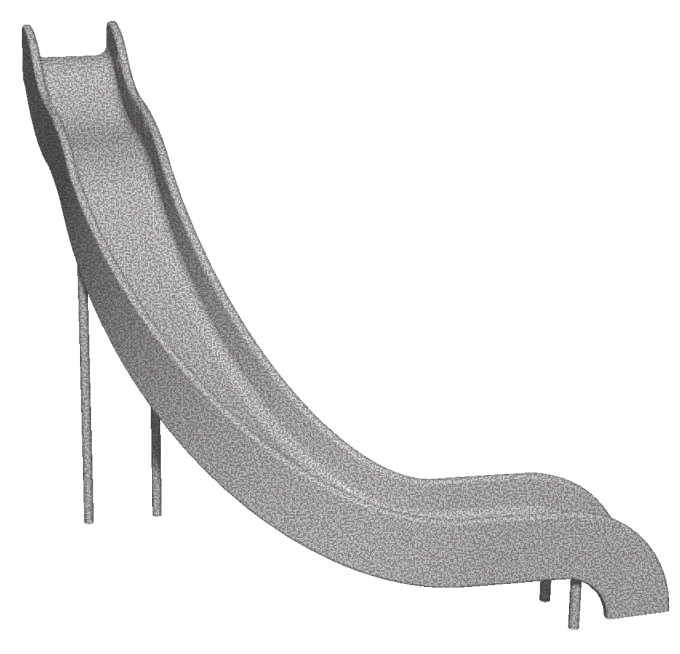
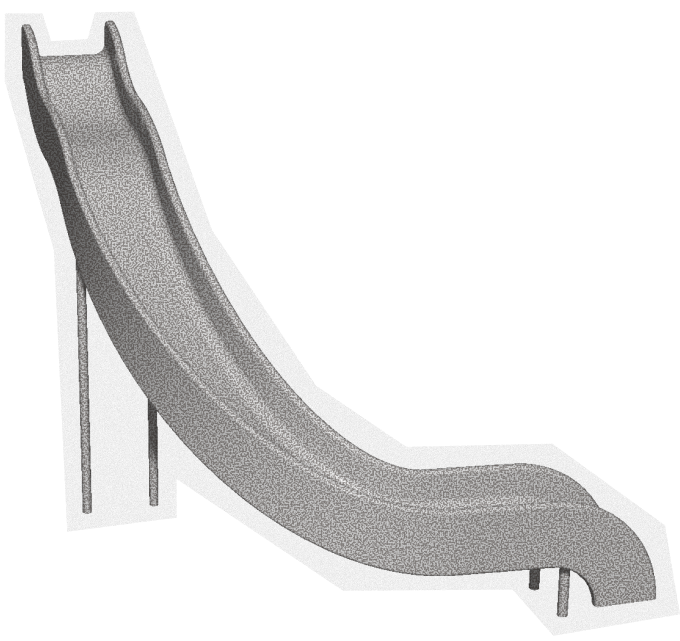
style: overhaul - whiteboard theme

Changed region(s): [[0.0309, 0.0312, 0.9882, 0.9672]]

diff --git a/src/index.css b/src/index.css
@@ -86,6 +86,13 @@ body {
 #root {
   min-height: 100vh;
 
+  /* Grid background from https://ibelick.com/blog/create-grid-and-dot-backgrounds-with-css-tailwind-css */
+  background-image: radial-gradient(
+    #e5e7eb 1px,
+    transparent 1px
+  );
+  background-size: 16px 16px;
+
   display: flex;
   flex-direction: column;
   gap: 2rem;
@@ -118,7 +125,7 @@ h4 {
 }
 
 h1 {
-  font-weight: 800;
+  font-weight: 700;
   font-size: var(--H1);
 }
 
@@ -378,7 +385,7 @@ header {
   list-style: none;
   border-radius: var(--rounded);
   background-color: var(--darker-background);
-  transition: box-shadow 100ms ease-in-out;
+  transition: outline 100ms ease-in-out;
 }
 
 .nav-items li:hover {
@@ -424,17 +431,31 @@ footer > a > p:hover {
 
 /* --------------- Home Page: Hero --------------- */
 
+.home {
+  margin: 0 2rem 4rem;
+}
+
 .hero {
-  margin-top: 1rem;
   display: flex;
   justify-content: center;
   gap: 3rem;
   flex-wrap: wrap;
   align-items: center;
+
+  position: relative;
+}
+
+#hero-horizon {
+  position: absolute;
+  width: 200%;
+  top: 8rem;
+  left: -90%;
+  border-top: 2px solid var(--lighter-main);
 }
 
 .hero-text {
-  z-index: 1;
+  backdrop-filter: blur(1px);
+  border-radius: var(--rounded);
   margin-top: 6rem; /* Aligns text with horizon */
   max-width: 27rem;
   display: flex;
@@ -466,12 +487,14 @@ footer > a > p:hover {
 }
 
 .hero div:first-child {
+  z-index: 1;
   position: relative;
   text-align: right;
 }
 
 #playground-slide {
   transform: scale(0.9);
+  filter: drop-shadow(var(--shadow));
 }
 
 .greeting {
@@ -519,44 +542,60 @@ footer > a > p:hover {
 
 /* --------------- Home Page: Projects --------------- */
 
-.projects {
-  margin-top: -9rem; /* Aligns ground with slide */
-  padding: 9rem 2.5rem 2rem; /* Creates ground beneath slide */
-  background-color: rgba(var(--black), 0.1);
-  border-radius: var(--rounded);
-}
-
 .projects h2 {
   font-family: var(--sans-serif);
   letter-spacing: 1px;
 }
 
 .projects > div {
-  display: flex;
-  justify-content: center;
+  max-width: 60rem;
+  margin: auto;
+
+  display: grid;
+  grid-template-columns: repeat(
+    auto-fit,
+    minmax(13rem, 1fr)
+  );
   gap: 1.5rem;
-  flex-wrap: wrap;
 }
 
-.projects figure {
-  max-width: 18rem;
-  width: 100%;
+.projects > div a {
+  border-radius: var(--rounded);
+  filter: drop-shadow(0 0 2px rgba(0, 0, 0, 0.2));
 
   display: flex;
   flex-direction: column;
   gap: 0.3rem;
-  align-items: center;
+
+  transition: transform 300ms ease-in-out,
+    outline 300ms ease-in-out;
 }
 
-.projects figure img {
-  box-shadow: var(--shadow);
-  transition: transform 300ms ease-in-out;
-}
-
-.projects figure img:hover {
+.projects > div a:hover {
   outline: 2px dashed var(--main);
   transform: translateY(-3%);
   cursor: pointer;
+}
+
+.projects .modern figcaption {
+  text-align: left;
+  background-color: white;
+}
+
+.projects .modern figcaption h2 {
+  font-family: var(--serif);
+  font-size: var(--XS);
+  font-weight: 800;
+}
+
+.projects .modern figcaption p {
+  margin: 0.5rem 0;
+  font-size: var(--S);
+}
+
+.projects .tags > li {
+  padding-top: 0.3rem;
+  font-size: var(--S);
 }
 
 /* --------------- Home Page: Callout --------------- */
@@ -1406,12 +1445,19 @@ footer > a > p:hover {
     margin: 1rem;
     gap: 1rem;
   }
-  .hero-text {
-    flex: 1;
+
+  #hero-horizon {
+    display: none;
   }
 
-  .greeting {
-    z-index: 5;
+  .hero-text {
+    flex: 1;
+    margin-top: 0;
+  }
+
+  .hero-text h2 {
+    line-height: 0.9;
+    font-size: var(--H3);
   }
 
   .greeting.sliding {
@@ -1453,17 +1499,12 @@ footer > a > p:hover {
   .project-nav {
     display: none;
   }
-
-  .projects {
-    border-radius: 0;
-    margin-top: -10rem;
-  }
 }
+
 @media (max-width: 600px) {
   /* -------- GENERAL -------- */
   #root {
     gap: 1rem;
-    overflow: hidden;
   }
 
   main,
@@ -1562,27 +1603,14 @@ footer > a > p:hover {
     gap: 0;
   }
 
-  .hero-text,
-  .projects {
-    margin-top: 0;
-  }
-
   .greeting {
     gap: 0;
   }
 
   /* -------- Home Page: Projects --------- */
-  .projects {
-    padding: 2rem 0;
-  }
 
   .projects > div {
     gap: 2rem;
-  }
-
-  .projects figure {
-    max-width: 100%;
-    padding: 0 1rem;
   }
 
   /* -------- About Page --------- */

diff --git a/src/data/projects-data.js b/src/data/projects-data.js
@@ -1,9 +1,30 @@
 const projects = {
+  haikuHunt: {
+    title: "Haiku Hunt",
+    date: "Oct 2025",
+    desc_short:
+      "A poetic search for landmarks around NYC",
+    desc_long:
+      "I built a platform where users guess landmarks based on haikus and write poems of their own.",
+    images_featured: [
+      {
+        src: "haiku-cover.png",
+        alt: "Cover of Haiku Hunt app",
+      },
+      {
+        src: "haiku-feature-1.png",
+        alt: "Key features",
+      },
+    ],
+    type: ["Personal project"],
+    tools: ["Express", "PostgreSQL"],
+  },
+
   groceryShop: {
     title: "ESL Grocery Shop",
     date: "Sep 2025",
     desc_short:
-      "A narrative app for ESL students",
+      "A narrative app for language learners",
     desc_long: `I built a narrative app to help English as a Second Language (ESL) 
       students navigate the grocery store and gain confidence in their everyday lives.`,
     images_featured: [
@@ -24,33 +45,14 @@ const projects = {
         alt: "Target audience",
       },
     ],
-    type: ["Personal project", "Frontend"],
+    type: ["Personal project"],
     tools: ["React"],
   },
-  haikuHunt: {
-    title: "Haiku Hunt",
-    date: "Oct 2025",
-    desc_short: "A poetic scavenger hunt",
-    desc_long:
-      "I built a platform where users guess landmarks based on haiku clues and then write poems of their own.",
-    images_featured: [
-      {
-        src: "haiku-cover.png",
-        alt: "Cover of Haiku Hunt app",
-      },
-      {
-        src: "haiku-feature-1.png",
-        alt: "Key features",
-      },
-    ],
-    type: ["Personal project", "Fullstack"],
-    tools: ["Express", "PostgreSQL"],
-  },
   researchStartup: {
-    title: "Research Startup",
+    title: "Orbitl",
     date: "Nov 2025",
     desc_short:
-      "A research startup's landing page",
+      "A clean launch page for a research startup",
     desc_long:
       "I designed and built a website for an early-stage research startup.",
     images_featured: [
@@ -59,12 +61,8 @@ const projects = {
         alt: "Cover of research startup website",
       },
     ],
-    type: [
-      "Client project",
-      "Design",
-      "Frontend",
-    ],
-    tools: ["Wordpress", "HTML", "CSS"],
+    type: ["Client project"],
+    tools: ["Wordpress"],
   },
 };
 

diff --git a/src/components/Projects-Container.jsx b/src/components/Projects-Container.jsx
@@ -1,5 +1,3 @@
-import ImageCaption from "./Image-Caption";
-
 export default function ProjectsContainer({
   content,
 }) {
@@ -14,14 +12,30 @@ export default function ProjectsContainer({
               "-"
             )}`}
           >
-            <ImageCaption
-              image={{
-                src: `/projects/${project.images_featured[0].src}`,
-                alt: project.images_featured[0]
-                  .alt,
-                caption: project.desc_short,
-              }}
-            ></ImageCaption>
+            <figure
+              className={"image-caption modern"}
+            >
+              <img
+                src={`/projects/${project.images_featured[0].src}`}
+                alt={
+                  project.images_featured[0].alt
+                }
+              />
+              <figcaption>
+                <h2>{project.title}</h2>
+                <p>{project.desc_short}</p>
+                <ul className="tags">
+                  <li>{project.type}</li>
+                  {project.tools.map((tool) => (
+                    <li
+                      key={`${project.title}-${tool}`}
+                    >
+                      {tool}
+                    </li>
+                  ))}
+                </ul>
+              </figcaption>
+            </figure>
           </a>
         ))}
       </div>

diff --git a/src/pages/Not-Found.jsx b/src/pages/Not-Found.jsx
@@ -15,15 +15,15 @@ export default function NotFound() {
             width="300px"
           />
           <pre className="speech-bubble">
-            <b>AGH!</b> How did you get here?!{" "}
-            <em>Please leave at once.</em> <br />
+            <b>Uh...oh.</b> How did you get here?
+            <br />
             <br />
             What's that— what am I doing on this
             laptop? I have no clue. I'm as
             confused as you are. <br />
             <br />
             What's that— did I write Denalia Zhi's
-            portfolio site? Of course not! I'm
+            portfolio site? Of course not. I'm
             just a squirrel. What do I know? I'm
             just a squirrel...
           </pre>

diff --git a/src/components/Hero.jsx b/src/components/Hero.jsx
@@ -51,9 +51,10 @@ export default function Hero() {
               hi
             </span>
           </h1>
+          <hr id="hero-horizon" />
           <h2>
             A designer who develops. A developing
-            designer. Fan of puns.
+            designer. Pun enthusiast.
           </h2>
           {/* Swap on click, change flex order */}
         </div>
